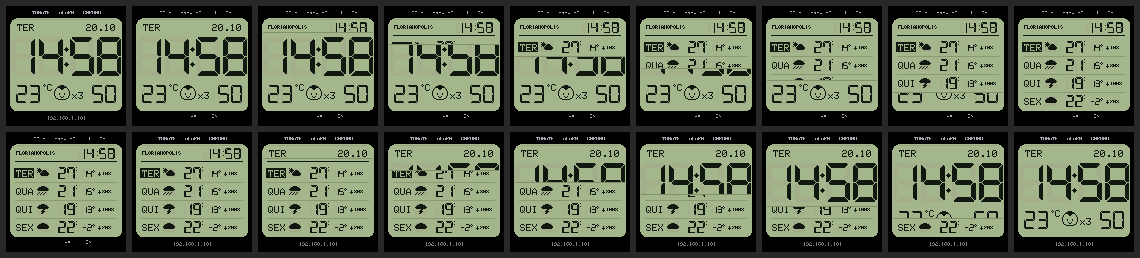
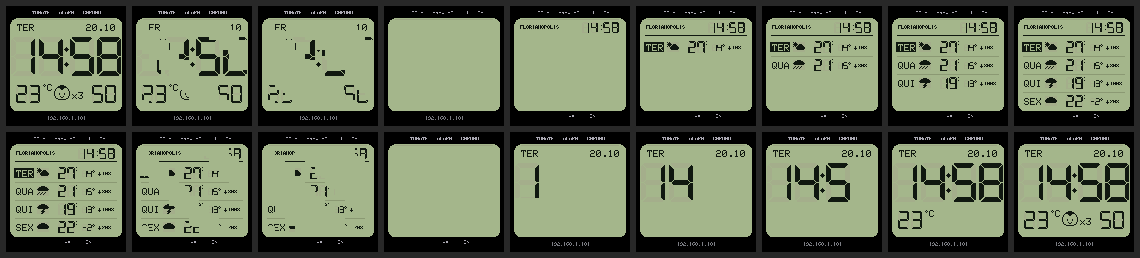
Troca LCD retrô <-> Previsão LCD: os segmentos apagam e acendem em vez da cortina
O miolo antigo apaga em 8 grupos espalhados de células (só fillRect), o vidro fica vazio um instante,
os rótulos de fora trocam e cada zona do mostrador novo (data, dígitos, temperatura, linhas da previsão)
acende na ordem de leitura, ~550 ms no total. Moldura nunca redesenhada; sem memória extra além das
faixas de uiOffscreen. Teste e GIFs do simulador atualizados.

diff --git a/sim/transicao_lcd.js b/sim/transicao_lcd.js
@@ -1,5 +1,5 @@
-// Monta a tira de quadros e o GIF da troca LCD retrô <-> Previsão LCD a partir de out/inc_cortina_*.raw
-// (gravados pelo sim.cpp, checkLcdCurtain). Saída: out/cortina_<de>_<para>.gif e out/cortina_tira.png.
+// Monta a tira de quadros e o GIF da troca LCD retrô <-> Previsão LCD a partir de out/inc_segmentos_*.raw
+// (gravados pelo sim.cpp, checkLcdCurtain). Saída: out/segmentos_<de>_<para>.gif e out/segmentos_tira.png.
 // Sem dependências: PNG (zlib) e GIF (LZW) escritos à mão.
 const fs = require('fs'), zlib = require('zlib'), path = require('path');
 const W = 240, dir = path.join(__dirname, 'out');
@@ -47,11 +47,11 @@ function gif(frames, delays) {
   return Buffer.concat(parts);
 }
 const sets = {};
-for (const f of fs.readdirSync(dir).filter(f => /^inc_cortina_.*_\d+\.raw$/.test(f)).sort()) (sets[f.replace(/_\d+\.raw$/, '').slice(4)] ||= []).push(fs.readFileSync(path.join(dir, f)));
+for (const f of fs.readdirSync(dir).filter(f => /^inc_segmentos_.*_\d+\.raw$/.test(f)).sort()) (sets[f.replace(/_\d+\.raw$/, '').slice(4)] ||= []).push(fs.readFileSync(path.join(dir, f)));
 const names = Object.keys(sets);
-if (!names.length) { console.log('sem quadros da cortina (rode o simulador)'); process.exit(0); }
+if (!names.length) { console.log('sem quadros da segmentos (rode o simulador)'); process.exit(0); }
 // tira: 6 quadros por linha em 1x (0, ..., fim), uma tira por sentido, empilhadas
-const pick = fr => [0, 2, 4, 6, 8, 10, 12, 14, fr.length - 1].map(i => Math.min(i, fr.length - 1)).filter((v, i, a) => a.indexOf(v) === i);
+const pick = fr => [...Array(9)].map((_, i) => Math.round(i * (fr.length - 1) / 8));
 const cols = 9, cell = W / 2 + 6, rows = names.length, sw = cols * cell + 6, sh = rows * cell + 6, sheet = Buffer.alloc(sw * sh * 3, 40);
 names.forEach((n, r) => pick(sets[n]).forEach((k, c) => {
   const fr = sets[n][k], ox = 6 + c * cell, oy = 6 + r * cell;
@@ -60,9 +60,9 @@ names.forEach((n, r) => pick(sets[n]).forEach((k, c) => {
     sheet[o] = R; sheet[o + 1] = G; sheet[o + 2] = B;
   }
 }));
-fs.writeFileSync(path.join(dir, 'cortina_tira.png'), png(sw, sh, sheet));
+fs.writeFileSync(path.join(dir, 'segmentos_tira.png'), png(sw, sh, sheet));
 for (const n of names) {
   const fr = sets[n], d = fr.map((_, i) => (i === 0 || i === fr.length - 1 ? 90 : 3));  // centésimos: segura o primeiro e o último
-  fs.writeFileSync(path.join(dir, 'cortina_' + n.replace('cortina_', '') + '.gif'), gif(fr, d));
+  fs.writeFileSync(path.join(dir, 'segmentos_' + n.replace('segmentos_', '') + '.gif'), gif(fr, d));
 }
-console.log('cortina: ' + names.length + ' GIFs e a tira em out/');
+console.log('segmentos: ' + names.length + ' GIFs e a tira em out/');

diff --git a/smalltv-pomodoro/ui.cpp b/smalltv-pomodoro/ui.cpp
@@ -650,39 +650,60 @@ static bool slideTo(const UiState &s, uint8_t t) {
   return ok;  // false: quem chamou desenha o mostrador novo do jeito normal (tela cheia)
 }
 
-// ---------- troca LCD retrô <-> Previsão LCD: a moldura fica parada, só o miolo muda ----------
-// Os dois mostradores têm a mesma moldura (retângulo arredondado verde-acinzentado e sombra interna);
-// mudam o miolo (x 10..229, y 28..207: os dígitos grandes do LCD retrô passam de x 14) e os dois rótulos de fora (y < 24 e y >= 210). Os rótulos trocam
-// de uma vez e o miolo vira uma cortina: faixas de 12 linhas do novo conteúdo descem de cima para baixo,
-// com um filete de contraste na frente, como a varredura de um LCD atualizando. O resto da moldura nunca
-// é redesenhado. Cada faixa é um desenho completo recortado (slideStrip): sem memória além das faixas de
-// uiOffscreen (<= 8 KB), as mesmas da rolagem.
-static const int CUR_X = 10, CUR_Y = 28, CUR_W = 220, CUR_H = 180, CUR_BAND = 12;
-struct CurtainCtx { SlideCtx s; int16_t cueY; };
-static void curtainStrip(void *p) {
-  CurtainCtx *c = (CurtainCtx *)p;
-  slideStrip(&c->s);
-  if (c->cueY >= 0) {
-    G->fillRect(CUR_X, c->cueY, CUR_W, 1, uiRgb(132, 146, 108));  // o filete: 2 linhas mais escuras que o fundo
-    G->fillRect(CUR_X, c->cueY + 1, CUR_W, 1, uiRgb(150, 163, 126));
-  }
-}
+// ---------- troca LCD retrô <-> Previsão LCD: a moldura fica parada, os segmentos apagam e acendem ----------
+// Os dois mostradores têm a mesma moldura (retângulo arredondado verde-acinzentado e sombra interna); mudam
+// o miolo (x 10..229, y 28..207: os dígitos grandes do LCD retrô passam de x 14) e os dois rótulos de fora
+// (y < 24 e y >= 210). Primeiro o conteúdo antigo apaga aos poucos: o miolo vira uma grade de células de
+// 20 x 20 e 8 grupos espalhados delas voltam ao fundo do LCD, um a cada 25 ms, sem desenhar o mostrador (só
+// fillRect). Com o vidro vazio os rótulos de fora trocam; depois cada zona do mostrador novo (data, cada
+// dígito, temperatura, cada linha da previsão...) acende de uma vez, na ordem de leitura: um desenho
+// completo recortado nela (slideStrip), sem memória além das faixas de uiOffscreen (<= 8 KB). A moldura
+// nunca é redesenhada. Zonas: x, y, largura, altura; juntas cobrem o miolo inteiro.
+static const uint8_t ZONES_LCD[][4] PROGMEM = {
+    {10, 28, 112, 26}, {122, 28, 108, 26},
+    {10, 54, 52, 92}, {62, 54, 54, 92}, {116, 54, 9, 92}, {125, 54, 55, 92}, {180, 54, 50, 92},
+    {10, 146, 84, 62}, {94, 146, 72, 62}, {166, 146, 64, 62}};
+static const uint8_t ZONES_FORECAST[][4] PROGMEM = {
+    {10, 28, 138, 30}, {148, 28, 82, 30},
+    {10, 58, 90, 40}, {100, 58, 80, 40}, {180, 58, 50, 40},
+    {10, 98, 90, 36}, {100, 98, 80, 36}, {180, 98, 50, 36},
+    {10, 134, 90, 36}, {100, 134, 80, 36}, {180, 134, 50, 36},
+    {10, 170, 90, 38}, {100, 170, 80, 38}, {180, 170, 50, 38}};
 static bool lcdPair(int8_t a, int8_t b) {
   return (a == THEME_LCD && b == THEME_FORECAST_LCD) || (a == THEME_FORECAST_LCD && b == THEME_LCD);
 }
-static bool lcdCurtain(const UiState &s, uint8_t t) {
-  const int N = (CUR_H + CUR_BAND - 1) / CUR_BAND;
-  const uint32_t MS = 360;
-  CurtainCtx c = {{&s, t}, -1};
-  if (!uiOffscreen(0, 0, 240, 24, curtainStrip, &c) || !uiOffscreen(0, 210, 240, 30, curtainStrip, &c)) return false;
+static void lcdWait(uint32_t t0, uint32_t ms) {
+  while (slideNow() - t0 < ms)
+    if (uiFrameHook) uiFrameHook();
+}
+static bool lcdSegments(const UiState &s, uint8_t t) {
+  const int GX = 14, GY = 28, CELL = 20, COLS = 11, ROWS = 9, GROUPS = 8;  // grade só dentro do vidro (os cantos arredondados ficam de fora)
+  static const uint8_t ORDER[GROUPS] PROGMEM = {0, 5, 2, 7, 4, 1, 6, 3};
+  const bool lcd = t == THEME_LCD;
+  const uint8_t(*z)[4] = lcd ? ZONES_LCD : ZONES_FORECAST;
+  const int nz = lcd ? (int)(sizeof ZONES_LCD / 4) : (int)(sizeof ZONES_FORECAST / 4);
+  SlideCtx c = {&s, t};
   uint32_t t0 = slideNow();
-  for (int n = 0; n < N; n++) {
-    while (slideNow() - t0 < MS * n / N)
-      if (uiFrameHook) uiFrameHook();
-    int y = CUR_Y + n * CUR_BAND, h = CUR_Y + CUR_H - y < CUR_BAND ? CUR_Y + CUR_H - y : CUR_BAND;
-    bool last = n == N - 1;
-    c.cueY = last ? -1 : y + h;
-    if (!uiOffscreen(CUR_X, y, CUR_W, last ? h : h + 2, curtainStrip, &c)) return false;
+  for (int g = 0; g < GROUPS; g++) {
+    lcdWait(t0, 25 * g);
+    for (int r = 0; r < ROWS; r++)
+      for (int k = 0; k < COLS; k++)
+        if ((k * 3 + r * 5) % GROUPS == pgm_read_byte(&ORDER[g])) {
+          int x = GX + k * CELL, w = x + CELL > 226 ? 226 - x : CELL;
+          if (r >= 1 && r < ROWS - 1) {  // no meio a borda é reta: os dígitos grandes do retrô vão até x 10 e 229
+            if (!k) { x = 10; w += GX - 10; }
+            if (k == COLS - 1) w += 4;
+          }
+          G->fillRect(x, GY + r * CELL, w, CELL, uiRgb(166, 180, 140));  // fundo do LCD (LCD_BG dos dois mostradores)
+        }
+    if (uiFrameHook) uiFrameHook();
+  }
+  lcdWait(t0, 25 * GROUPS + 50);  // o vidro vazio por um instante
+  if (!uiOffscreen(0, 0, 240, 24, slideStrip, &c) || !uiOffscreen(0, 210, 240, 30, slideStrip, &c)) return false;
+  uint32_t t1 = slideNow();
+  for (int i = 0; i < nz; i++) {
+    lcdWait(t1, 22 * i);
+    if (!uiOffscreen(pgm_read_byte(&z[i][0]), pgm_read_byte(&z[i][1]), pgm_read_byte(&z[i][2]), pgm_read_byte(&z[i][3]), slideStrip, &c)) return false;
   }
   return true;
 }
@@ -698,7 +719,7 @@ void uiRenderClock(const UiState &s) {
   if (slideOn) {
     slideOn = false;
     bool lcd = screen == -1 && lcdPair(slidePrev, t);
-    if (lcd && lcdCurtain(s, t)) {  // sem memória para as faixas: desenha o novo do jeito normal, abaixo
+    if (lcd && lcdSegments(s, t)) {  // sem memória para as faixas: desenha o novo do jeito normal, abaixo
       screen = t;
       return;
     }

diff --git a/sim/sim.cpp b/sim/sim.cpp
@@ -243,18 +243,18 @@ static int checkSlide() {
 // Troca LCD retrô <-> Previsão LCD (ui.cpp, lcdCurtain): a moldura tem que ficar parada. Em todo quadro da
 // transição, os pixels fora do miolo (x 10..229, y 28..207) e dos rótulos de fora (y < 24 e y >= 210) são os
 // de antes (que são os mesmos do mostrador novo: a moldura é idêntica nos dois); no fim, a tela é igual a
-// um desenho do zero do mostrador novo (nada sobra do anterior). Grava os quadros em out/inc_cortina_*.raw.
-static std::vector<std::vector<uint16_t>> cortina;
-static Frame *cortinaF;
-static void cortinaHook() {
-  if (cortina.empty() || memcmp(cortina.back().data(), cortinaF->px, sizeof cortinaF->px))
-    cortina.emplace_back(cortinaF->px, cortinaF->px + 240 * 240);  // quadros repetidos (espera) não contam
+// um desenho do zero do mostrador novo (nada sobra do anterior). Grava os quadros em out/inc_segmentos_*.raw.
+static std::vector<std::vector<uint16_t>> segmentos;
+static Frame *segmentosF;
+static void segmentosHook() {
+  if (segmentos.empty() || memcmp(segmentos.back().data(), segmentosF->px, sizeof segmentosF->px))
+    segmentos.emplace_back(segmentosF->px, segmentosF->px + 240 * 240);  // quadros repetidos (espera) não contam
 }
 static bool lcdMoldura(int x, int y) { return !(y < 24 || y >= 210 || (x >= 10 && x < 230 && y >= 28 && y < 208)); }
 static int checkLcdCurtain() {
   int fails = 0;
   Frame *f = new Frame(), *a = new Frame(), *b = new Frame();
-  cortinaF = f;
+  segmentosF = f;
   for (int dir = 0; dir < 2; dir++) {
     int from = dir ? THEME_FORECAST_LCD : THEME_LCD, to = dir ? THEME_LCD : THEME_FORECAST_LCD;
     UiState sa = base(14, 58, 50), sb = sa;
@@ -263,27 +263,27 @@ static int checkLcdCurtain() {
     uiBegin(a); uiRenderClock(sa);
     uiBegin(b); uiRenderClock(sb);
     uiBegin(f); uiRenderClock(sa);
-    cortina.clear();
-    cortinaHook();
-    uiFrameHook = cortinaHook;
+    segmentos.clear();
+    segmentosHook();
+    uiFrameHook = segmentosHook;
     uiInvalidateSlide();
     uiRenderClock(sb);
     uiFrameHook = nullptr;
     long moldura = 0, sobra = 0;
-    for (auto &q : cortina)
+    for (auto &q : segmentos)
       for (int i = 0; i < 240 * 240; i++) moldura += lcdMoldura(i % 240, i / 240) && q[i] != a->px[i];
     for (int i = 0; i < 240 * 240; i++) {
       sobra += f->px[i] != b->px[i];
       moldura += lcdMoldura(i % 240, i / 240) && a->px[i] != b->px[i];  // moldura dos dois mostradores idêntica
     }
-    bool ok = !moldura && !sobra && cortina.size() >= 12;
-    printf("cortina %s -> %s: %s (%zu quadros, %ld pixels da moldura mudaram, %ld pixels sobrando)\n", uiFaceName(from), uiFaceName(to), ok ? "ok" : "FALHOU", cortina.size(), moldura, sobra);
+    bool ok = !moldura && !sobra && segmentos.size() >= 12;
+    printf("segmentos %s -> %s: %s (%zu quadros, %ld pixels da moldura mudaram, %ld pixels sobrando)\n", uiFaceName(from), uiFaceName(to), ok ? "ok" : "FALHOU", segmentos.size(), moldura, sobra);
     fails += !ok;
-    for (size_t k = 0; k < cortina.size(); k++) {
+    for (size_t k = 0; k < segmentos.size(); k++) {
       Frame q;
-      memcpy(q.px, cortina[k].data(), sizeof q.px);
+      memcpy(q.px, segmentos[k].data(), sizeof q.px);
       char n[64];
-      snprintf(n, sizeof n, "inc_cortina_%s_%02zu", dir ? "previsao-lcd_lcd" : "lcd_previsao-lcd", k);
+      snprintf(n, sizeof n, "inc_segmentos_%s_%02zu", dir ? "previsao-lcd_lcd" : "lcd_previsao-lcd", k);
       save(q, n);
     }
     uiRenderClock(sb);  // quadro incremental depois da troca: nada muda
